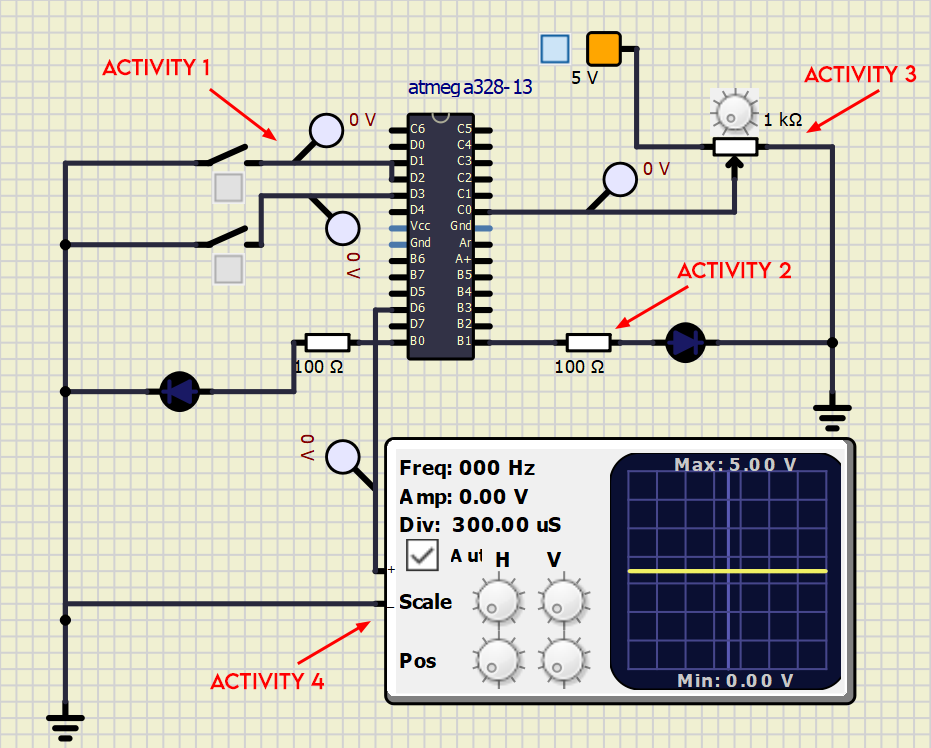
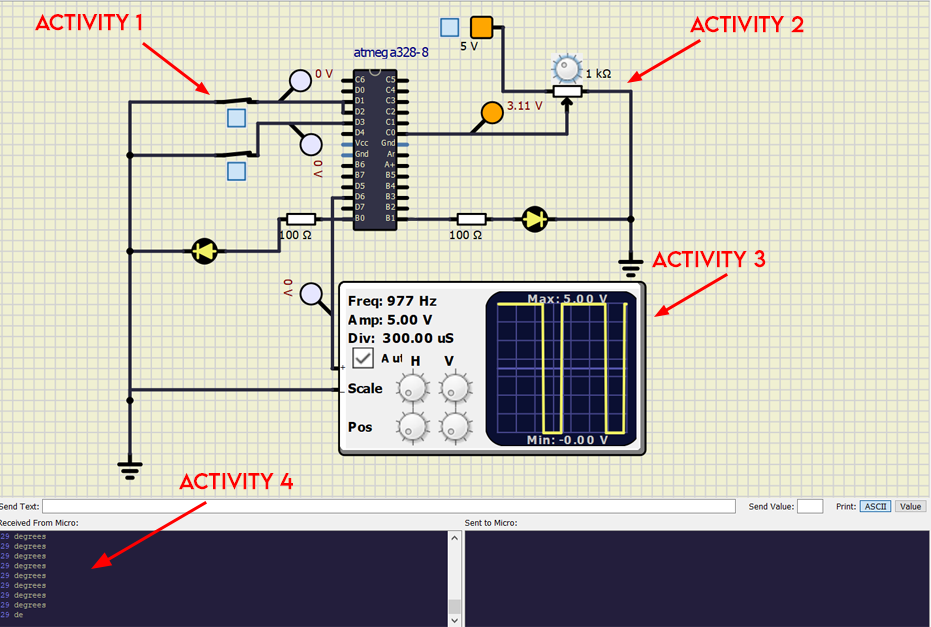
final touch

diff --git a/src/Activity3.c b/src/Activity3.c
@@ -1,5 +1,6 @@
 #include<avr/io.h>
 
+#include"../inc/Activity1.h"
 #include"../inc/Activity2.h"
 #include"../inc/Activity3.h"
 #include"../inc/Activity4.h"
@@ -29,22 +30,22 @@ void Activity3()
         if(ADC_val > 0 && ADC_val <= 200)
         {
             OCR0A = 51;
-            Activity4("20 degree celcius\n");
+            Activity4("20 degrees\n");
         }
         else if(ADC_val > 210 && ADC_val <= 500)
         {
             OCR0A = 102;
-            Activity4("25 degree celcius\n");
+            Activity4("25 degrees\n");
         }
         else if(ADC_val > 510 && ADC_val <= 700)
         {
             OCR0A = 180;  
-            Activity4("29 degree celcius\n"); 
+            Activity4("29 degrees\n"); 
         }
         else if(ADC_val > 710 && ADC_val <= 1024)
         {
             OCR0A = 250;
-            Activity4("33 degree celcius\n");
+            Activity4("33 degrees\n");
         }
         
     }
